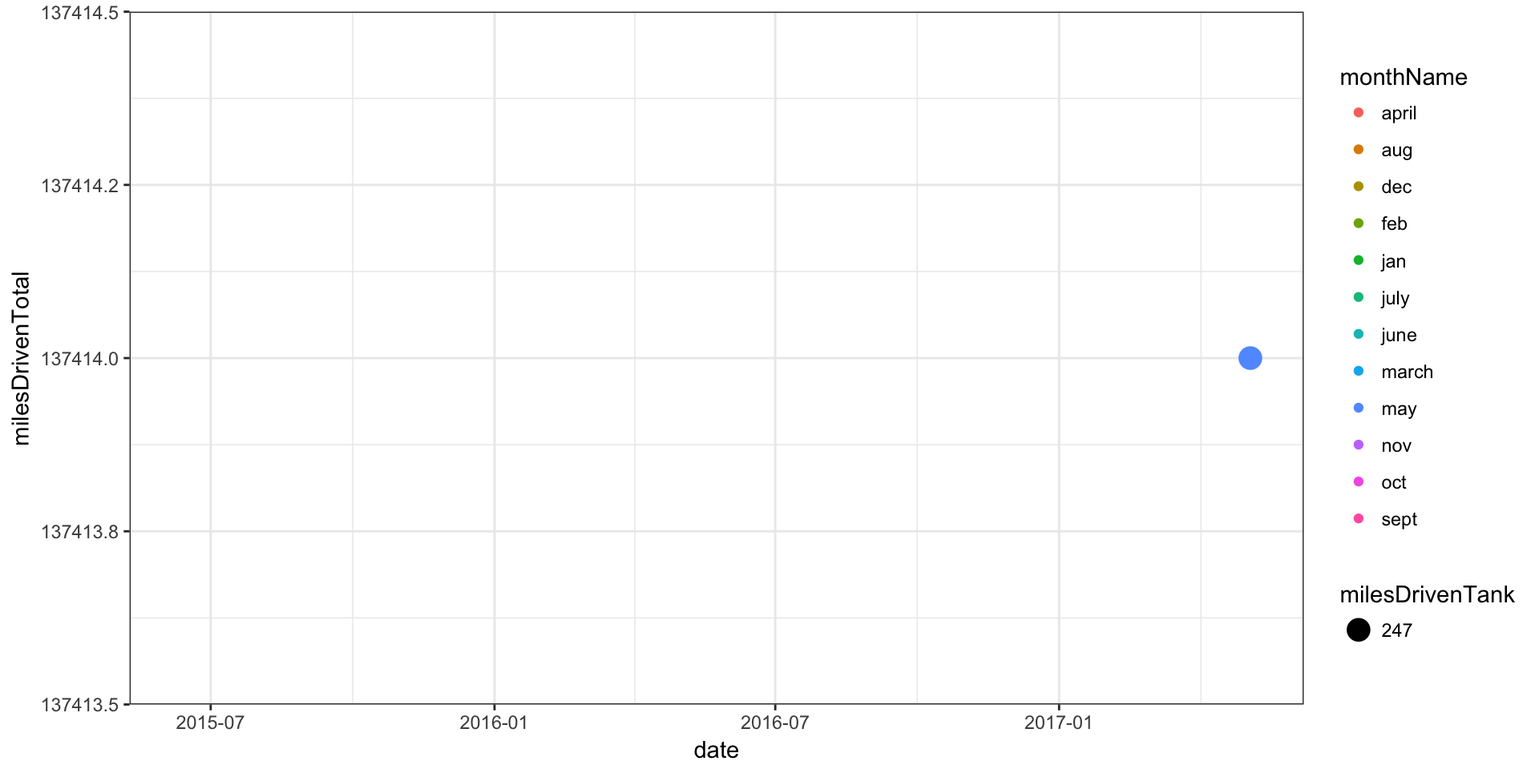
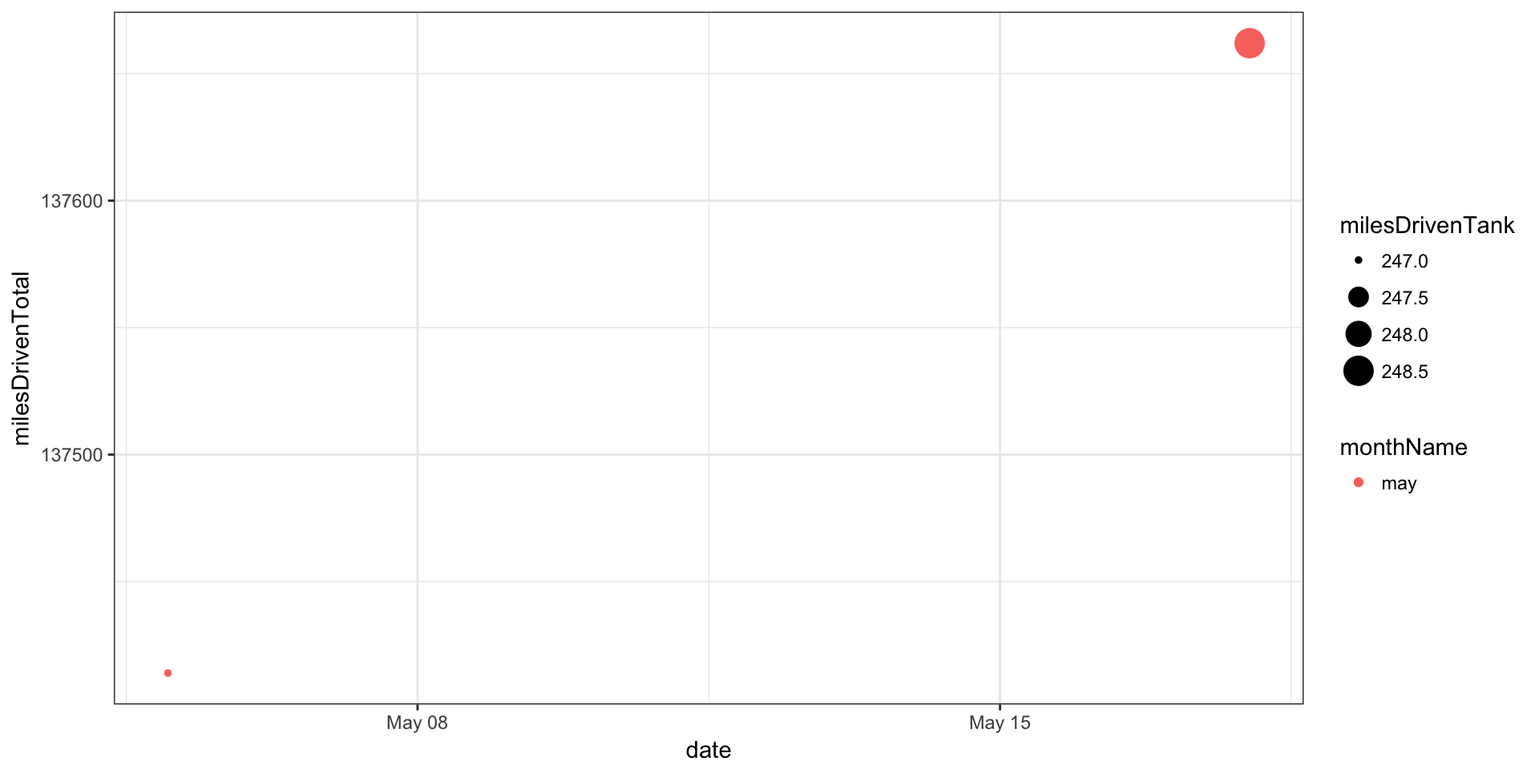
biweekly update

diff --git a/index.html b/index.html
@@ -249,7 +249,7 @@ library(leaflet); library(RCurl); library(lubridate)</code></pre>
 <pre class="r"><code>gLog &lt;- read_csv(&quot;./data/gas_log_data.csv&quot;)</code></pre>
 <pre class="r"><code># check data frame
 glimpse(gLog)</code></pre>
-<pre><code>## Observations: 71
+<pre><code>## Observations: 72
 ## Variables: 14
 ## $ Timestamp        &lt;chr&gt; NA, NA, NA, NA, NA, NA, NA, NA, NA, NA, NA, N...
 ## $ date             &lt;date&gt; 2015-06-13, 2015-07-25, 2015-07-24, 2015-07-...
@@ -257,7 +257,7 @@ glimpse(gLog)</code></pre>
 ## $ location         &lt;chr&gt; &quot;CIRCLE K 02939 TUCSON, AZ&quot;, &quot;Mobil, 220 Cour...
 ## $ Latitude         &lt;dbl&gt; 32.23647, 44.00272, 44.01214, 44.00272, 44.01...
 ## $ Longitude        &lt;dbl&gt; -110.92486, -73.15563, -73.16429, -73.15563, ...
-## $ milesDrivenTank  &lt;int&gt; NA, NA, NA, NA, NA, NA, NA, NA, NA, NA, NA, N...
+## $ milesDrivenTank  &lt;dbl&gt; NA, NA, NA, NA, NA, NA, NA, NA, NA, NA, NA, N...
 ## $ milesDrivenTotal &lt;int&gt; NA, NA, NA, NA, NA, NA, NA, NA, NA, NA, NA, N...
 ## $ pricePerGallon   &lt;dbl&gt; NA, NA, NA, NA, NA, NA, NA, NA, NA, NA, NA, N...
 ## $ gallonsPurchased &lt;dbl&gt; NA, NA, NA, NA, NA, NA, NA, NA, NA, NA, NA, N...
@@ -266,8 +266,10 @@ glimpse(gLog)</code></pre>
 ## $ monthName        &lt;chr&gt; &quot;june&quot;, &quot;july&quot;, &quot;july&quot;, &quot;july&quot;, &quot;aug&quot;, &quot;aug&quot;,...
 ## $ year             &lt;int&gt; 2015, 2015, 2015, 2015, 2015, 2015, 2015, 201...</code></pre>
 <pre class="r"><code># Total miles driven as a function of time 
-ggplot(gLog, aes(x = date, y = milesDrivenTotal, 
-                 color = monthName, size = milesDrivenTank)) + 
+gLog %&gt;%
+  na.omit() %&gt;%
+  ggplot(., aes(x = date, y = milesDrivenTotal, 
+                color = monthName, size = milesDrivenTank)) + 
     geom_point() + 
     theme_bw()</code></pre>
 <p><img src="index_files/figure-html/plotTotalMiles-1.png" width="960" style="display: block; margin: auto;" /></p>
@@ -280,12 +282,12 @@ leaflet(data = gLog, width = 910, height = 500) %&gt;%
   setView(lat = 36, lng = -88, zoom = 4) %&gt;%
   addTiles() %&gt;%
   addMarkers(~Longitude, ~Latitude, popup = ~as.character(location))</code></pre>
-<div id="htmlwidget-49502019753d185d67e0" style="width:910px;height:500px;" class="leaflet html-widget"></div>
-<script type="application/json" data-for="htmlwidget-49502019753d185d67e0">{"x":{"options":{"crs":{"crsClass":"L.CRS.EPSG3857","code":null,"proj4def":null,"projectedBounds":null,"options":{}}},"setView":[[36,-88],4,[]],"calls":[{"method":"addTiles","args":["//{s}.tile.openstreetmap.org/{z}/{x}/{y}.png",null,null,{"minZoom":0,"maxZoom":18,"maxNativeZoom":null,"tileSize":256,"subdomains":"abc","errorTileUrl":"","tms":false,"continuousWorld":false,"noWrap":false,"zoomOffset":0,"zoomReverse":false,"opacity":1,"zIndex":null,"unloadInvisibleTiles":null,"updateWhenIdle":null,"detectRetina":false,"reuseTiles":false,"attribution":"&copy; <a href=\"http://openstreetmap.org\">OpenStreetMap<\/a> contributors, <a href=\"http://creativecommons.org/licenses/by-sa/2.0/\">CC-BY-SA<\/a>"}]},{"method":"addMarkers","args":[[32.2364654,44.0027178,44.012139,44.0027178,44.012139,41.4020913,44.0027178,44.0027178,33.117389,32.258025,32.2213006,31.9011614,32.6195025,33.117389,32.221871,32.221871,32.221871,32.149359,31.9011614,32.649536,35.195064,35.9745896,32.221871,32.221871,32.221871,32.2364654,32.2365879,40.5010671,42.417294,30.119498,29.7602374,30.3788465,39.792738,35.3922444,38.723456,32.7512914,30.119498,35.719371,29.7602374,34.7136864,34.7136864,35.1909575,30.2229083,29.759324,40.5010671,39.9605204,39.9605204,40.5010671,39.9605204,40.5010671,40.5010671,39.9605204,40.5010671,39.9605204,40.5010671,39.9605204,39.9605204,40.4978078,39.9605204,39.9605204,40.5010671,39.9605204,39.9605204,39.9605204,40.8288693,39.9605204,39.9605204,40.5070116,40.5010671,40.5010671,40.5010671],[-110.9248561,-73.1556335,-73.164289,-73.1556335,-73.164289,-72.8484001,-73.1556335,-73.1556335,-111.848738,-110.960634,-110.9793215,-110.99423,-110.7951058,-111.848738,-110.90054,-110.90054,-110.90054,-110.9100423,-110.99423,-111.393663,-114.074113,-112.124884,-110.90054,-110.90054,-110.90054,-110.9248561,-110.8822692,-74.4220661,-82.9101706,-94.6399409,-95.3654938,-89.0937904,-86.250822,-97.7428365,-104.729262,-99.8973405,-94.6399409,-88.633707,-95.3654938,-98.4016495,-98.4016495,-80.7621614,-92.6546246,-95.367318,-74.4220661,-75.1376991,-75.1376991,-74.4220661,-75.1376991,-74.4220661,-74.4220661,-75.1376991,-74.4220661,-75.1376991,-74.4220661,-75.1376991,-75.1376991,-74.4337849,-75.1376991,-75.1376991,-74.4220661,-75.1376991,-75.1376991,-75.1376991,-73.6475496,-75.1376991,-75.1376991,-74.4143646,-74.4220661,-74.4220661,-74.4220661],null,null,null,{"clickable":true,"draggable":false,"keyboard":true,"title":"","alt":"","zIndexOffset":0,"opacity":1,"riseOnHover":false,"riseOffset":250},["CIRCLE K 02939 TUCSON, AZ","Mobil, 220 Court St, Middlebury, VT 05753","Shell, 25 Court St, Middlebury, VT 05753","Mobil, 220 Court St, Middlebury, VT 05753","Shell, 25 Court St, Middlebury, VT 05753","EXXON MOBIL 97422554 NORTH HAVEN, CT","Mobil, 220 Court St, Middlebury, VT 05753","Mobil, 220 Court St, Middlebury, VT 05753","Shell, 2577 Casa Blanca Rd, Bapchule, AZ 85121","QT 1454 91014548 TUCSON, AZ","CIRCLE K 01985 TUCSON, AZ","SAFEWAY FUEL 10016848 TUCSON, AZ","CIRCLE K 02928 ORACLE, AZ","Shell, 2577 Casa Blanca Rd, Bapchule, AZ 85121","Shell, 4301 E Broadway Blvd, Tucson, AZ 85711","Shell, 4301 E Broadway Blvd, Tucson, AZ 85711","Shell, 4301 E Broadway Blvd, Tucson, AZ 85711","QUIK MART FUEL TUCSON, AZ","SAFEWAY FUEL 10016848 TUCSON, AZ","SHELL OIL PICACHO, AZ","SHELL OIL KINGMAN, AZ","TEXACO 0356205 TUSAYAN, AZ","Shell, 4301 E Broadway Blvd, Tucson, AZ 85711","Shell, 4301 E Broadway Blvd, Tucson, AZ 85711","Shell, 4301 E Broadway Blvd, Tucson, AZ 85711","CIRCLE K 02939 TUCSON, AZ","QT 1452 91014522 TUCSON, AZ","LUKOIL 57237 HIGHLAND PARK, NJ","BP","EXXON MOBIL","SHELL OIL","BEST MART","SPEEDWAY","VICTORY MART","LOVE'S COUNTRY","CONOCO - CROSSROAD","EXXON MOBIL","MINOR FOOD MART","SHELL OIL","LOVE'S COUNTRY 00002634 LAWTON, OK","LOVE'S COUNTRY 00002634 LAWTON, OK","CIRCLE K","CORNER STORE","SHELL","LUKOIL 57237 HIGHLAND PARK, NJ S586269862786850","LUKOIL","LUKOIL","LUKOIL 57237 HIGHLAND PARK, NJ S306295826869673","LUKOIL 57237 HIGHLAND PARK, NJ S307088839316717","LUKOIL 57237 HIGHLAND PARK, NJ S466332781700596","LUKOIL 57237 HIGHLAND PARK, NJ","LUKOIL 57237 HIGHLAND PARK, NJ S307088839316717","LUKOIL 57237 HIGHLAND PARK, NJ S306357466438249","LUKOIL 57237 HIGHLAND PARK, NJ S307088839316717","LUKOIL 57237 HIGHLAND PARK, NJ S587026663652225","LUKOIL 57237 HIGHLAND PARK, NJ S307088839316717","LUKOIL 57237 HIGHLAND PARK, NJ S307088839316717","Raceway, 60 Raritan Ave, Highland Park, NJ 08904","LUKOIL 57237 HIGHLAND PARK, NJ S307088839316717","LUKOIL 57237 HIGHLAND PARK, NJ S307088839316717","LUKOIL 57237 HIGHLAND PARK, NJ S307088839316717","LUKOIL 57237 HIGHLAND PARK, NJ S307088839316717","LUKOIL 57237 HIGHLAND PARK, NJ S307088839316717","LUKOIL 57237 HIGHLAND PARK, NJ S307088839316717","EXXON MOBIL 47875372 NEWARK, DE","LUKOIL 57237 HIGHLAND PARK, NJ S307088839316717","LUKOIL 57237 HIGHLAND PARK, NJ S307088839316717","Raceway, 1555 NJ-27, Edison, NJ 08817","Lukoil 702 raritan ave, highland park NJ 08904","Lukoil 702 raritan ave highland park NJ 08904","lukoil 702 raritan ave highland park nj 08904"],null,null,null,null,null,null]}],"limits":{"lat":[29.759324,44.012139],"lng":[-114.074113,-72.8484001]}},"evals":[],"jsHooks":[]}</script>
+<div id="htmlwidget-034c640ae47d9ed4adb2" style="width:910px;height:500px;" class="leaflet html-widget"></div>
+<script type="application/json" data-for="htmlwidget-034c640ae47d9ed4adb2">{"x":{"options":{"crs":{"crsClass":"L.CRS.EPSG3857","code":null,"proj4def":null,"projectedBounds":null,"options":{}}},"setView":[[36,-88],4,[]],"calls":[{"method":"addTiles","args":["//{s}.tile.openstreetmap.org/{z}/{x}/{y}.png",null,null,{"minZoom":0,"maxZoom":18,"maxNativeZoom":null,"tileSize":256,"subdomains":"abc","errorTileUrl":"","tms":false,"continuousWorld":false,"noWrap":false,"zoomOffset":0,"zoomReverse":false,"opacity":1,"zIndex":null,"unloadInvisibleTiles":null,"updateWhenIdle":null,"detectRetina":false,"reuseTiles":false,"attribution":"&copy; <a href=\"http://openstreetmap.org\">OpenStreetMap<\/a> contributors, <a href=\"http://creativecommons.org/licenses/by-sa/2.0/\">CC-BY-SA<\/a>"}]},{"method":"addMarkers","args":[[32.2364654,44.0027178,44.012139,44.0027178,44.012139,41.4020913,44.0027178,44.0027178,33.117389,32.258025,32.2213006,31.9011614,32.6195025,33.117389,32.221871,32.221871,32.221871,32.149359,31.9011614,32.649536,35.195064,35.9745896,32.221871,32.221871,32.221871,32.2364654,32.2365879,40.5010671,42.417294,30.119498,29.7602374,30.3788465,39.792738,35.3922444,38.723456,32.7512914,30.119498,35.719371,29.7602374,34.7136864,34.7136864,35.1909575,30.2229083,29.759324,40.5010671,39.9605204,39.9605204,40.5010671,39.9605204,40.5010671,40.5010671,39.9605204,40.5010671,39.9605204,40.5010671,39.9605204,39.9605204,40.4978078,39.9605204,39.9605204,40.5010671,39.9605204,39.9605204,39.9605204,40.8288693,39.9605204,39.9605204,40.5070116,40.5010671,40.5010671,40.5010671,40.5010671],[-110.9248561,-73.1556335,-73.164289,-73.1556335,-73.164289,-72.8484001,-73.1556335,-73.1556335,-111.848738,-110.960634,-110.9793215,-110.99423,-110.7951058,-111.848738,-110.90054,-110.90054,-110.90054,-110.9100423,-110.99423,-111.393663,-114.074113,-112.124884,-110.90054,-110.90054,-110.90054,-110.9248561,-110.8822692,-74.4220661,-82.9101706,-94.6399409,-95.3654938,-89.0937904,-86.250822,-97.7428365,-104.729262,-99.8973405,-94.6399409,-88.633707,-95.3654938,-98.4016495,-98.4016495,-80.7621614,-92.6546246,-95.367318,-74.4220661,-75.1376991,-75.1376991,-74.4220661,-75.1376991,-74.4220661,-74.4220661,-75.1376991,-74.4220661,-75.1376991,-74.4220661,-75.1376991,-75.1376991,-74.4337849,-75.1376991,-75.1376991,-74.4220661,-75.1376991,-75.1376991,-75.1376991,-73.6475496,-75.1376991,-75.1376991,-74.4143646,-74.4220661,-74.4220661,-74.4220661,-74.4220661],null,null,null,{"clickable":true,"draggable":false,"keyboard":true,"title":"","alt":"","zIndexOffset":0,"opacity":1,"riseOnHover":false,"riseOffset":250},["CIRCLE K 02939 TUCSON, AZ","Mobil, 220 Court St, Middlebury, VT 05753","Shell, 25 Court St, Middlebury, VT 05753","Mobil, 220 Court St, Middlebury, VT 05753","Shell, 25 Court St, Middlebury, VT 05753","EXXON MOBIL 97422554 NORTH HAVEN, CT","Mobil, 220 Court St, Middlebury, VT 05753","Mobil, 220 Court St, Middlebury, VT 05753","Shell, 2577 Casa Blanca Rd, Bapchule, AZ 85121","QT 1454 91014548 TUCSON, AZ","CIRCLE K 01985 TUCSON, AZ","SAFEWAY FUEL 10016848 TUCSON, AZ","CIRCLE K 02928 ORACLE, AZ","Shell, 2577 Casa Blanca Rd, Bapchule, AZ 85121","Shell, 4301 E Broadway Blvd, Tucson, AZ 85711","Shell, 4301 E Broadway Blvd, Tucson, AZ 85711","Shell, 4301 E Broadway Blvd, Tucson, AZ 85711","QUIK MART FUEL TUCSON, AZ","SAFEWAY FUEL 10016848 TUCSON, AZ","SHELL OIL PICACHO, AZ","SHELL OIL KINGMAN, AZ","TEXACO 0356205 TUSAYAN, AZ","Shell, 4301 E Broadway Blvd, Tucson, AZ 85711","Shell, 4301 E Broadway Blvd, Tucson, AZ 85711","Shell, 4301 E Broadway Blvd, Tucson, AZ 85711","CIRCLE K 02939 TUCSON, AZ","QT 1452 91014522 TUCSON, AZ","LUKOIL 57237 HIGHLAND PARK, NJ","BP","EXXON MOBIL","SHELL OIL","BEST MART","SPEEDWAY","VICTORY MART","LOVE'S COUNTRY","CONOCO - CROSSROAD","EXXON MOBIL","MINOR FOOD MART","SHELL OIL","LOVE'S COUNTRY 00002634 LAWTON, OK","LOVE'S COUNTRY 00002634 LAWTON, OK","CIRCLE K","CORNER STORE","SHELL","LUKOIL 57237 HIGHLAND PARK, NJ S586269862786850","LUKOIL","LUKOIL","LUKOIL 57237 HIGHLAND PARK, NJ S306295826869673","LUKOIL 57237 HIGHLAND PARK, NJ S307088839316717","LUKOIL 57237 HIGHLAND PARK, NJ S466332781700596","LUKOIL 57237 HIGHLAND PARK, NJ","LUKOIL 57237 HIGHLAND PARK, NJ S307088839316717","LUKOIL 57237 HIGHLAND PARK, NJ S306357466438249","LUKOIL 57237 HIGHLAND PARK, NJ S307088839316717","LUKOIL 57237 HIGHLAND PARK, NJ S587026663652225","LUKOIL 57237 HIGHLAND PARK, NJ S307088839316717","LUKOIL 57237 HIGHLAND PARK, NJ S307088839316717","Raceway, 60 Raritan Ave, Highland Park, NJ 08904","LUKOIL 57237 HIGHLAND PARK, NJ S307088839316717","LUKOIL 57237 HIGHLAND PARK, NJ S307088839316717","LUKOIL 57237 HIGHLAND PARK, NJ S307088839316717","LUKOIL 57237 HIGHLAND PARK, NJ S307088839316717","LUKOIL 57237 HIGHLAND PARK, NJ S307088839316717","LUKOIL 57237 HIGHLAND PARK, NJ S307088839316717","EXXON MOBIL 47875372 NEWARK, DE","LUKOIL 57237 HIGHLAND PARK, NJ S307088839316717","LUKOIL 57237 HIGHLAND PARK, NJ S307088839316717","Raceway, 1555 NJ-27, Edison, NJ 08817","Lukoil 702 raritan ave, highland park NJ 08904","Lukoil 702 raritan ave highland park NJ 08904","lukoil 702 raritan ave highland park nj 08904","Lukoil 702 raritan ave highland Park nj 08904"],null,null,null,null,null,null]}],"limits":{"lat":[29.759324,44.012139],"lng":[-114.074113,-72.8484001]}},"evals":[],"jsHooks":[]}</script>
 <pre class="r"><code>gLog %&gt;% 
     datatable(callback = JS(&quot;return table;&quot;))</code></pre>
-<div id="htmlwidget-8aee15988f15b805cc1e" style="width:100%;height:auto;" class="datatables html-widget"></div>
-<script type="application/json" data-for="htmlwidget-8aee15988f15b805cc1e">{"x":{"filter":"none","data":[["1","2","3","4","5","6","7","8","9","10","11","12","13","14","15","16","17","18","19","20","21","22","23","24","25","26","27","28","29","30","31","32","33","34","35","36","37","38","39","40","41","42","43","44","45","46","47","48","49","50","51","52","53","54","55","56","57","58","59","60","61","62","63","64","65","66","67","68","69","70","71"],[null,null,null,null,null,null,null,null,null,null,null,null,null,null,null,null,null,null,null,null,null,null,null,null,null,null,null,null,null,null,null,null,null,null,null,null,null,null,null,null,null,null,null,null,null,null,null,null,null,null,null,null,null,null,null,null,null,null,null,null,null,null,null,null,null,null,null,"5/5/2017 9:45:51","5/5/2017 14:23:45","5/5/2017 14:25:26","5/5/2017 14:26:47"],["2015-06-13","2015-07-25","2015-07-24","2015-07-11","2015-08-20","2015-08-15","2015-08-13","2015-08-01","2015-12-29","2016-01-29","2016-02-14","2016-03-30","2016-03-04","2016-04-25","2016-04-20","2016-05-28","2016-05-20","2016-05-04","2016-06-26","2016-06-17","2016-06-14","2016-06-13","2016-06-12","2016-06-07","2016-06-04","2016-07-29","2016-07-26","2016-08-17","2016-08-15","2016-08-15","2016-08-15","2016-08-12","2016-08-12","2016-08-12","2016-08-11","2016-08-10","2016-08-10","2016-08-10","2016-08-10","2016-08-09","2016-08-09","2016-08-08","2016-08-08","2016-08-08","2016-09-26","2016-09-15","2016-09-02","2016-10-24","2016-10-14","2016-11-28","2016-11-14","2016-11-02","2016-12-23","2016-12-12","2017-01-27","2017-01-13","2017-01-03","2017-02-20","2017-02-16","2017-02-06","2017-03-30","2017-03-20","2017-03-10","2017-03-01","2017-04-23","2017-04-21","2017-04-10","2017-05-05","2017-03-29","2017-04-09","2016-10-21"],[null,null,null,null,null,null,null,null,null,null,null,null,null,null,null,null,null,null,null,null,null,null,null,null,null,null,null,null,null,null,null,null,null,null,null,null,null,null,null,null,null,null,null,null,null,null,null,null,null,null,null,null,null,null,null,null,null,null,null,null,null,null,null,null,null,null,null,0,0,0,0],["CIRCLE K 02939 TUCSON, AZ","Mobil, 220 Court St, Middlebury, VT 05753","Shell, 25 Court St, Middlebury, VT 05753","Mobil, 220 Court St, Middlebury, VT 05753","Shell, 25 Court St, Middlebury, VT 05753","EXXON MOBIL 97422554 NORTH HAVEN, CT","Mobil, 220 Court St, Middlebury, VT 05753","Mobil, 220 Court St, Middlebury, VT 05753","Shell, 2577 Casa Blanca Rd, Bapchule, AZ 85121","QT 1454 91014548 TUCSON, AZ","CIRCLE K 01985 TUCSON, AZ","SAFEWAY FUEL 10016848 TUCSON, AZ","CIRCLE K 02928 ORACLE, AZ","Shell, 2577 Casa Blanca Rd, Bapchule, AZ 85121","Shell, 4301 E Broadway Blvd, Tucson, AZ 85711","Shell, 4301 E Broadway Blvd, Tucson, AZ 85711","Shell, 4301 E Broadway Blvd, Tucson, AZ 85711","QUIK MART FUEL TUCSON, AZ","SAFEWAY FUEL 10016848 TUCSON, AZ","SHELL OIL PICACHO, AZ","SHELL OIL KINGMAN, AZ","TEXACO 0356205 TUSAYAN, AZ","Shell, 4301 E Broadway Blvd, Tucson, AZ 85711","Shell, 4301 E Broadway Blvd, Tucson, AZ 85711","Shell, 4301 E Broadway Blvd, Tucson, AZ 85711","CIRCLE K 02939 TUCSON, AZ","QT 1452 91014522 TUCSON, AZ","LUKOIL 57237 HIGHLAND PARK, NJ","BP","EXXON MOBIL","SHELL OIL","BEST MART","SPEEDWAY","VICTORY MART","LOVE'S COUNTRY","CONOCO - CROSSROAD","EXXON MOBIL","MINOR FOOD MART","SHELL OIL","LOVE'S COUNTRY 00002634 LAWTON, OK","LOVE'S COUNTRY 00002634 LAWTON, OK","CIRCLE K","CORNER STORE","SHELL","LUKOIL 57237 HIGHLAND PARK, NJ S586269862786850","LUKOIL","LUKOIL","LUKOIL 57237 HIGHLAND PARK, NJ S306295826869673","LUKOIL 57237 HIGHLAND PARK, NJ S307088839316717","LUKOIL 57237 HIGHLAND PARK, NJ S466332781700596","LUKOIL 57237 HIGHLAND PARK, NJ","LUKOIL 57237 HIGHLAND PARK, NJ S307088839316717","LUKOIL 57237 HIGHLAND PARK, NJ S306357466438249","LUKOIL 57237 HIGHLAND PARK, NJ S307088839316717","LUKOIL 57237 HIGHLAND PARK, NJ S587026663652225","LUKOIL 57237 HIGHLAND PARK, NJ S307088839316717","LUKOIL 57237 HIGHLAND PARK, NJ S307088839316717","Raceway, 60 Raritan Ave, Highland Park, NJ 08904","LUKOIL 57237 HIGHLAND PARK, NJ S307088839316717","LUKOIL 57237 HIGHLAND PARK, NJ S307088839316717","LUKOIL 57237 HIGHLAND PARK, NJ S307088839316717","LUKOIL 57237 HIGHLAND PARK, NJ S307088839316717","LUKOIL 57237 HIGHLAND PARK, NJ S307088839316717","LUKOIL 57237 HIGHLAND PARK, NJ S307088839316717","EXXON MOBIL 47875372 NEWARK, DE","LUKOIL 57237 HIGHLAND PARK, NJ S307088839316717","LUKOIL 57237 HIGHLAND PARK, NJ S307088839316717","Raceway, 1555 NJ-27, Edison, NJ 08817","Lukoil 702 raritan ave, highland park NJ 08904","Lukoil 702 raritan ave highland park NJ 08904","lukoil 702 raritan ave highland park nj 08904"],[32.2364654,44.0027178,44.012139,44.0027178,44.012139,41.4020913,44.0027178,44.0027178,33.117389,32.258025,32.2213006,31.9011614,32.6195025,33.117389,32.221871,32.221871,32.221871,32.149359,31.9011614,32.649536,35.195064,35.9745896,32.221871,32.221871,32.221871,32.2364654,32.2365879,40.5010671,42.417294,30.119498,29.7602374,30.3788465,39.792738,35.3922444,38.723456,32.7512914,30.119498,35.719371,29.7602374,34.7136864,34.7136864,35.1909575,30.2229083,29.759324,40.5010671,39.9605204,39.9605204,40.5010671,39.9605204,40.5010671,40.5010671,39.9605204,40.5010671,39.9605204,40.5010671,39.9605204,39.9605204,40.4978078,39.9605204,39.9605204,40.5010671,39.9605204,39.9605204,39.9605204,40.8288693,39.9605204,39.9605204,40.5070116,40.5010671,40.5010671,40.5010671],[-110.9248561,-73.1556335,-73.164289,-73.1556335,-73.164289,-72.8484001,-73.1556335,-73.1556335,-111.848738,-110.960634,-110.9793215,-110.99423,-110.7951058,-111.848738,-110.90054,-110.90054,-110.90054,-110.9100423,-110.99423,-111.393663,-114.074113,-112.124884,-110.90054,-110.90054,-110.90054,-110.9248561,-110.8822692,-74.4220661,-82.9101706,-94.6399409,-95.3654938,-89.0937904,-86.250822,-97.7428365,-104.729262,-99.8973405,-94.6399409,-88.633707,-95.3654938,-98.4016495,-98.4016495,-80.7621614,-92.6546246,-95.367318,-74.4220661,-75.1376991,-75.1376991,-74.4220661,-75.1376991,-74.4220661,-74.4220661,-75.1376991,-74.4220661,-75.1376991,-74.4220661,-75.1376991,-75.1376991,-74.4337849,-75.1376991,-75.1376991,-74.4220661,-75.1376991,-75.1376991,-75.1376991,-73.6475496,-75.1376991,-75.1376991,-74.4143646,-74.4220661,-74.4220661,-74.4220661],[null,null,null,null,null,null,null,null,null,null,null,null,null,null,null,null,null,null,null,null,null,null,null,null,null,null,null,null,null,null,null,null,null,null,null,null,null,null,null,null,null,null,null,null,null,null,null,null,null,null,null,null,null,null,null,null,null,null,null,null,null,null,null,null,null,null,null,247,null,null,null],[null,null,null,null,null,null,null,null,null,null,null,null,null,null,null,null,null,null,null,null,null,null,null,null,null,null,null,null,null,null,null,null,null,null,null,null,null,null,null,null,null,null,null,null,null,null,null,null,null,null,null,null,null,null,null,null,null,null,null,null,null,null,null,null,null,null,null,137414,null,null,null],[null,null,null,null,null,null,null,null,null,null,null,null,null,null,null,null,null,null,null,null,null,null,null,null,null,null,null,null,null,null,null,null,null,null,null,null,null,null,null,null,null,null,null,null,null,null,null,null,null,null,null,null,null,null,null,null,null,null,null,null,null,null,null,null,null,null,null,2.859,2.199,2.359,2.039],[null,null,null,null,null,null,null,null,null,null,null,null,null,null,null,null,null,null,null,null,null,null,null,null,null,null,null,null,null,null,null,null,null,null,null,null,null,null,null,null,null,null,null,null,null,null,null,null,null,null,null,null,null,null,null,null,null,null,null,null,null,null,null,null,null,null,null,17.998,19.378,16.705,19.301],[3.79,6.42,45.56,18.12,30,4.19,17.1,19.3,32.67,31.52,19.44,30,25.54,38.4,37.56,40.34,34.93,39.84,39.43,28.51,46.06,49.75,36.43,40.29,35.55,12.95,8.22,33,33.23,27.53,10.58,35.39,23.18,28.9,20,32.95,35.11,22.18,31.38,27.15,4.88,4.67,33.84,4.58,36.89,36.01,36.03,39.35,40,40.19,42.68,41.55,43.89,43.02,40.25,44.5,39.01,2.13,40.67,43.1,42.61,42.8,42.33,39.9,20,43.94,39.41,51.46,42.61,39.41,39.35],[6,7,7,7,8,8,8,8,12,1,2,3,3,4,4,5,5,5,6,6,6,6,6,6,6,7,7,8,8,8,8,8,8,8,8,8,8,8,8,8,8,8,8,8,9,9,9,10,10,11,11,11,12,12,1,1,1,2,2,2,3,3,3,3,4,4,4,5,3,4,10],["june","july","july","july","aug","aug","aug","aug","dec","jan","feb","march","march","april","april","may","may","may","june","june","june","june","june","june","june","july","july","aug","aug","aug","aug","aug","aug","aug","aug","aug","aug","aug","aug","aug","aug","aug","aug","aug","sept","sept","sept","oct","oct","nov","nov","nov","dec","dec","jan","jan","jan","feb","feb","feb","march","march","march","march","april","april","april","may","march","april","oct"],[2015,2015,2015,2015,2015,2015,2015,2015,2015,2016,2016,2016,2016,2016,2016,2016,2016,2016,2016,2016,2016,2016,2016,2016,2016,2016,2016,2016,2016,2016,2016,2016,2016,2016,2016,2016,2016,2016,2016,2016,2016,2016,2016,2016,2016,2016,2016,2016,2016,2016,2016,2016,2016,2016,2017,2017,2017,2017,2017,2017,2017,2017,2017,2017,2017,2017,2017,2017,2017,2017,2016]],"container":"<table class=\"display\">\n  <thead>\n    <tr>\n      <th> <\/th>\n      <th>Timestamp<\/th>\n      <th>date<\/th>\n      <th>time<\/th>\n      <th>location<\/th>\n      <th>Latitude<\/th>\n      <th>Longitude<\/th>\n      <th>milesDrivenTank<\/th>\n      <th>milesDrivenTotal<\/th>\n      <th>pricePerGallon<\/th>\n      <th>gallonsPurchased<\/th>\n      <th>totalPrice<\/th>\n      <th>monthNum<\/th>\n      <th>monthName<\/th>\n      <th>year<\/th>\n    <\/tr>\n  <\/thead>\n<\/table>","options":{"columnDefs":[{"className":"dt-right","targets":[3,5,6,7,8,9,10,11,12,14]},{"orderable":false,"targets":0}],"order":[],"autoWidth":false,"orderClasses":false},"callback":"function(table) {\nreturn table;\n}","selection":{"mode":"multiple","selected":null,"target":"row"}},"evals":["callback"],"jsHooks":[]}</script>
+<div id="htmlwidget-9c2f2c676a2dd12d97ed" style="width:100%;height:auto;" class="datatables html-widget"></div>
+<script type="application/json" data-for="htmlwidget-9c2f2c676a2dd12d97ed">{"x":{"filter":"none","data":[["1","2","3","4","5","6","7","8","9","10","11","12","13","14","15","16","17","18","19","20","21","22","23","24","25","26","27","28","29","30","31","32","33","34","35","36","37","38","39","40","41","42","43","44","45","46","47","48","49","50","51","52","53","54","55","56","57","58","59","60","61","62","63","64","65","66","67","68","69","70","71","72"],[null,null,null,null,null,null,null,null,null,null,null,null,null,null,null,null,null,null,null,null,null,null,null,null,null,null,null,null,null,null,null,null,null,null,null,null,null,null,null,null,null,null,null,null,null,null,null,null,null,null,null,null,null,null,null,null,null,null,null,null,null,null,null,null,null,null,null,"5/5/2017 9:45:51","5/5/2017 14:23:45","5/5/2017 14:25:26","5/5/2017 14:26:47","5/18/2017 7:51:18"],["2015-06-13","2015-07-25","2015-07-24","2015-07-11","2015-08-20","2015-08-15","2015-08-13","2015-08-01","2015-12-29","2016-01-29","2016-02-14","2016-03-30","2016-03-04","2016-04-25","2016-04-20","2016-05-28","2016-05-20","2016-05-04","2016-06-26","2016-06-17","2016-06-14","2016-06-13","2016-06-12","2016-06-07","2016-06-04","2016-07-29","2016-07-26","2016-08-17","2016-08-15","2016-08-15","2016-08-15","2016-08-12","2016-08-12","2016-08-12","2016-08-11","2016-08-10","2016-08-10","2016-08-10","2016-08-10","2016-08-09","2016-08-09","2016-08-08","2016-08-08","2016-08-08","2016-09-26","2016-09-15","2016-09-02","2016-10-24","2016-10-14","2016-11-28","2016-11-14","2016-11-02","2016-12-23","2016-12-12","2017-01-27","2017-01-13","2017-01-03","2017-02-20","2017-02-16","2017-02-06","2017-03-30","2017-03-20","2017-03-10","2017-03-01","2017-04-23","2017-04-21","2017-04-10","2017-05-05","2017-03-29","2017-04-09","2016-10-21","2017-05-18"],[null,null,null,null,null,null,null,null,null,null,null,null,null,null,null,null,null,null,null,null,null,null,null,null,null,null,null,null,null,null,null,null,null,null,null,null,null,null,null,null,null,null,null,null,null,null,null,null,null,null,null,null,null,null,null,null,null,null,null,null,null,null,null,null,null,null,null,0,0,0,0,0],["CIRCLE K 02939 TUCSON, AZ","Mobil, 220 Court St, Middlebury, VT 05753","Shell, 25 Court St, Middlebury, VT 05753","Mobil, 220 Court St, Middlebury, VT 05753","Shell, 25 Court St, Middlebury, VT 05753","EXXON MOBIL 97422554 NORTH HAVEN, CT","Mobil, 220 Court St, Middlebury, VT 05753","Mobil, 220 Court St, Middlebury, VT 05753","Shell, 2577 Casa Blanca Rd, Bapchule, AZ 85121","QT 1454 91014548 TUCSON, AZ","CIRCLE K 01985 TUCSON, AZ","SAFEWAY FUEL 10016848 TUCSON, AZ","CIRCLE K 02928 ORACLE, AZ","Shell, 2577 Casa Blanca Rd, Bapchule, AZ 85121","Shell, 4301 E Broadway Blvd, Tucson, AZ 85711","Shell, 4301 E Broadway Blvd, Tucson, AZ 85711","Shell, 4301 E Broadway Blvd, Tucson, AZ 85711","QUIK MART FUEL TUCSON, AZ","SAFEWAY FUEL 10016848 TUCSON, AZ","SHELL OIL PICACHO, AZ","SHELL OIL KINGMAN, AZ","TEXACO 0356205 TUSAYAN, AZ","Shell, 4301 E Broadway Blvd, Tucson, AZ 85711","Shell, 4301 E Broadway Blvd, Tucson, AZ 85711","Shell, 4301 E Broadway Blvd, Tucson, AZ 85711","CIRCLE K 02939 TUCSON, AZ","QT 1452 91014522 TUCSON, AZ","LUKOIL 57237 HIGHLAND PARK, NJ","BP","EXXON MOBIL","SHELL OIL","BEST MART","SPEEDWAY","VICTORY MART","LOVE'S COUNTRY","CONOCO - CROSSROAD","EXXON MOBIL","MINOR FOOD MART","SHELL OIL","LOVE'S COUNTRY 00002634 LAWTON, OK","LOVE'S COUNTRY 00002634 LAWTON, OK","CIRCLE K","CORNER STORE","SHELL","LUKOIL 57237 HIGHLAND PARK, NJ S586269862786850","LUKOIL","LUKOIL","LUKOIL 57237 HIGHLAND PARK, NJ S306295826869673","LUKOIL 57237 HIGHLAND PARK, NJ S307088839316717","LUKOIL 57237 HIGHLAND PARK, NJ S466332781700596","LUKOIL 57237 HIGHLAND PARK, NJ","LUKOIL 57237 HIGHLAND PARK, NJ S307088839316717","LUKOIL 57237 HIGHLAND PARK, NJ S306357466438249","LUKOIL 57237 HIGHLAND PARK, NJ S307088839316717","LUKOIL 57237 HIGHLAND PARK, NJ S587026663652225","LUKOIL 57237 HIGHLAND PARK, NJ S307088839316717","LUKOIL 57237 HIGHLAND PARK, NJ S307088839316717","Raceway, 60 Raritan Ave, Highland Park, NJ 08904","LUKOIL 57237 HIGHLAND PARK, NJ S307088839316717","LUKOIL 57237 HIGHLAND PARK, NJ S307088839316717","LUKOIL 57237 HIGHLAND PARK, NJ S307088839316717","LUKOIL 57237 HIGHLAND PARK, NJ S307088839316717","LUKOIL 57237 HIGHLAND PARK, NJ S307088839316717","LUKOIL 57237 HIGHLAND PARK, NJ S307088839316717","EXXON MOBIL 47875372 NEWARK, DE","LUKOIL 57237 HIGHLAND PARK, NJ S307088839316717","LUKOIL 57237 HIGHLAND PARK, NJ S307088839316717","Raceway, 1555 NJ-27, Edison, NJ 08817","Lukoil 702 raritan ave, highland park NJ 08904","Lukoil 702 raritan ave highland park NJ 08904","lukoil 702 raritan ave highland park nj 08904","Lukoil 702 raritan ave highland Park nj 08904"],[32.2364654,44.0027178,44.012139,44.0027178,44.012139,41.4020913,44.0027178,44.0027178,33.117389,32.258025,32.2213006,31.9011614,32.6195025,33.117389,32.221871,32.221871,32.221871,32.149359,31.9011614,32.649536,35.195064,35.9745896,32.221871,32.221871,32.221871,32.2364654,32.2365879,40.5010671,42.417294,30.119498,29.7602374,30.3788465,39.792738,35.3922444,38.723456,32.7512914,30.119498,35.719371,29.7602374,34.7136864,34.7136864,35.1909575,30.2229083,29.759324,40.5010671,39.9605204,39.9605204,40.5010671,39.9605204,40.5010671,40.5010671,39.9605204,40.5010671,39.9605204,40.5010671,39.9605204,39.9605204,40.4978078,39.9605204,39.9605204,40.5010671,39.9605204,39.9605204,39.9605204,40.8288693,39.9605204,39.9605204,40.5070116,40.5010671,40.5010671,40.5010671,40.5010671],[-110.9248561,-73.1556335,-73.164289,-73.1556335,-73.164289,-72.8484001,-73.1556335,-73.1556335,-111.848738,-110.960634,-110.9793215,-110.99423,-110.7951058,-111.848738,-110.90054,-110.90054,-110.90054,-110.9100423,-110.99423,-111.393663,-114.074113,-112.124884,-110.90054,-110.90054,-110.90054,-110.9248561,-110.8822692,-74.4220661,-82.9101706,-94.6399409,-95.3654938,-89.0937904,-86.250822,-97.7428365,-104.729262,-99.8973405,-94.6399409,-88.633707,-95.3654938,-98.4016495,-98.4016495,-80.7621614,-92.6546246,-95.367318,-74.4220661,-75.1376991,-75.1376991,-74.4220661,-75.1376991,-74.4220661,-74.4220661,-75.1376991,-74.4220661,-75.1376991,-74.4220661,-75.1376991,-75.1376991,-74.4337849,-75.1376991,-75.1376991,-74.4220661,-75.1376991,-75.1376991,-75.1376991,-73.6475496,-75.1376991,-75.1376991,-74.4143646,-74.4220661,-74.4220661,-74.4220661,-74.4220661],[null,null,null,null,null,null,null,null,null,null,null,null,null,null,null,null,null,null,null,null,null,null,null,null,null,null,null,null,null,null,null,null,null,null,null,null,null,null,null,null,null,null,null,null,null,null,null,null,null,null,null,null,null,null,null,null,null,null,null,null,null,null,null,null,null,null,null,247,null,null,null,248.5],[null,null,null,null,null,null,null,null,null,null,null,null,null,null,null,null,null,null,null,null,null,null,null,null,null,null,null,null,null,null,null,null,null,null,null,null,null,null,null,null,null,null,null,null,null,null,null,null,null,null,null,null,null,null,null,null,null,null,null,null,null,null,null,null,null,null,null,137414,null,null,null,137662],[null,null,null,null,null,null,null,null,null,null,null,null,null,null,null,null,null,null,null,null,null,null,null,null,null,null,null,null,null,null,null,null,null,null,null,null,null,null,null,null,null,null,null,null,null,null,null,null,null,null,null,null,null,null,null,null,null,null,null,null,null,null,null,null,null,null,null,2.859,2.199,2.359,2.039,2.299],[null,null,null,null,null,null,null,null,null,null,null,null,null,null,null,null,null,null,null,null,null,null,null,null,null,null,null,null,null,null,null,null,null,null,null,null,null,null,null,null,null,null,null,null,null,null,null,null,null,null,null,null,null,null,null,null,null,null,null,null,null,null,null,null,null,null,null,17.998,19.378,16.705,19.301,19.575],[3.79,6.42,45.56,18.12,30,4.19,17.1,19.3,32.67,31.52,19.44,30,25.54,38.4,37.56,40.34,34.93,39.84,39.43,28.51,46.06,49.75,36.43,40.29,35.55,12.95,8.22,33,33.23,27.53,10.58,35.39,23.18,28.9,20,32.95,35.11,22.18,31.38,27.15,4.88,4.67,33.84,4.58,36.89,36.01,36.03,39.35,40,40.19,42.68,41.55,43.89,43.02,40.25,44.5,39.01,2.13,40.67,43.1,42.61,42.8,42.33,39.9,20,43.94,39.41,51.46,42.61,39.41,39.35,45],[6,7,7,7,8,8,8,8,12,1,2,3,3,4,4,5,5,5,6,6,6,6,6,6,6,7,7,8,8,8,8,8,8,8,8,8,8,8,8,8,8,8,8,8,9,9,9,10,10,11,11,11,12,12,1,1,1,2,2,2,3,3,3,3,4,4,4,5,3,4,10,5],["june","july","july","july","aug","aug","aug","aug","dec","jan","feb","march","march","april","april","may","may","may","june","june","june","june","june","june","june","july","july","aug","aug","aug","aug","aug","aug","aug","aug","aug","aug","aug","aug","aug","aug","aug","aug","aug","sept","sept","sept","oct","oct","nov","nov","nov","dec","dec","jan","jan","jan","feb","feb","feb","march","march","march","march","april","april","april","may","march","april","oct","may"],[2015,2015,2015,2015,2015,2015,2015,2015,2015,2016,2016,2016,2016,2016,2016,2016,2016,2016,2016,2016,2016,2016,2016,2016,2016,2016,2016,2016,2016,2016,2016,2016,2016,2016,2016,2016,2016,2016,2016,2016,2016,2016,2016,2016,2016,2016,2016,2016,2016,2016,2016,2016,2016,2016,2017,2017,2017,2017,2017,2017,2017,2017,2017,2017,2017,2017,2017,2017,2017,2017,2016,2017]],"container":"<table class=\"display\">\n  <thead>\n    <tr>\n      <th> <\/th>\n      <th>Timestamp<\/th>\n      <th>date<\/th>\n      <th>time<\/th>\n      <th>location<\/th>\n      <th>Latitude<\/th>\n      <th>Longitude<\/th>\n      <th>milesDrivenTank<\/th>\n      <th>milesDrivenTotal<\/th>\n      <th>pricePerGallon<\/th>\n      <th>gallonsPurchased<\/th>\n      <th>totalPrice<\/th>\n      <th>monthNum<\/th>\n      <th>monthName<\/th>\n      <th>year<\/th>\n    <\/tr>\n  <\/thead>\n<\/table>","options":{"columnDefs":[{"className":"dt-right","targets":[3,5,6,7,8,9,10,11,12,14]},{"orderable":false,"targets":0}],"order":[],"autoWidth":false,"orderClasses":false},"callback":"function(table) {\nreturn table;\n}","selection":{"mode":"multiple","selected":null,"target":"row"}},"evals":["callback"],"jsHooks":[]}</script>
 
 
 
